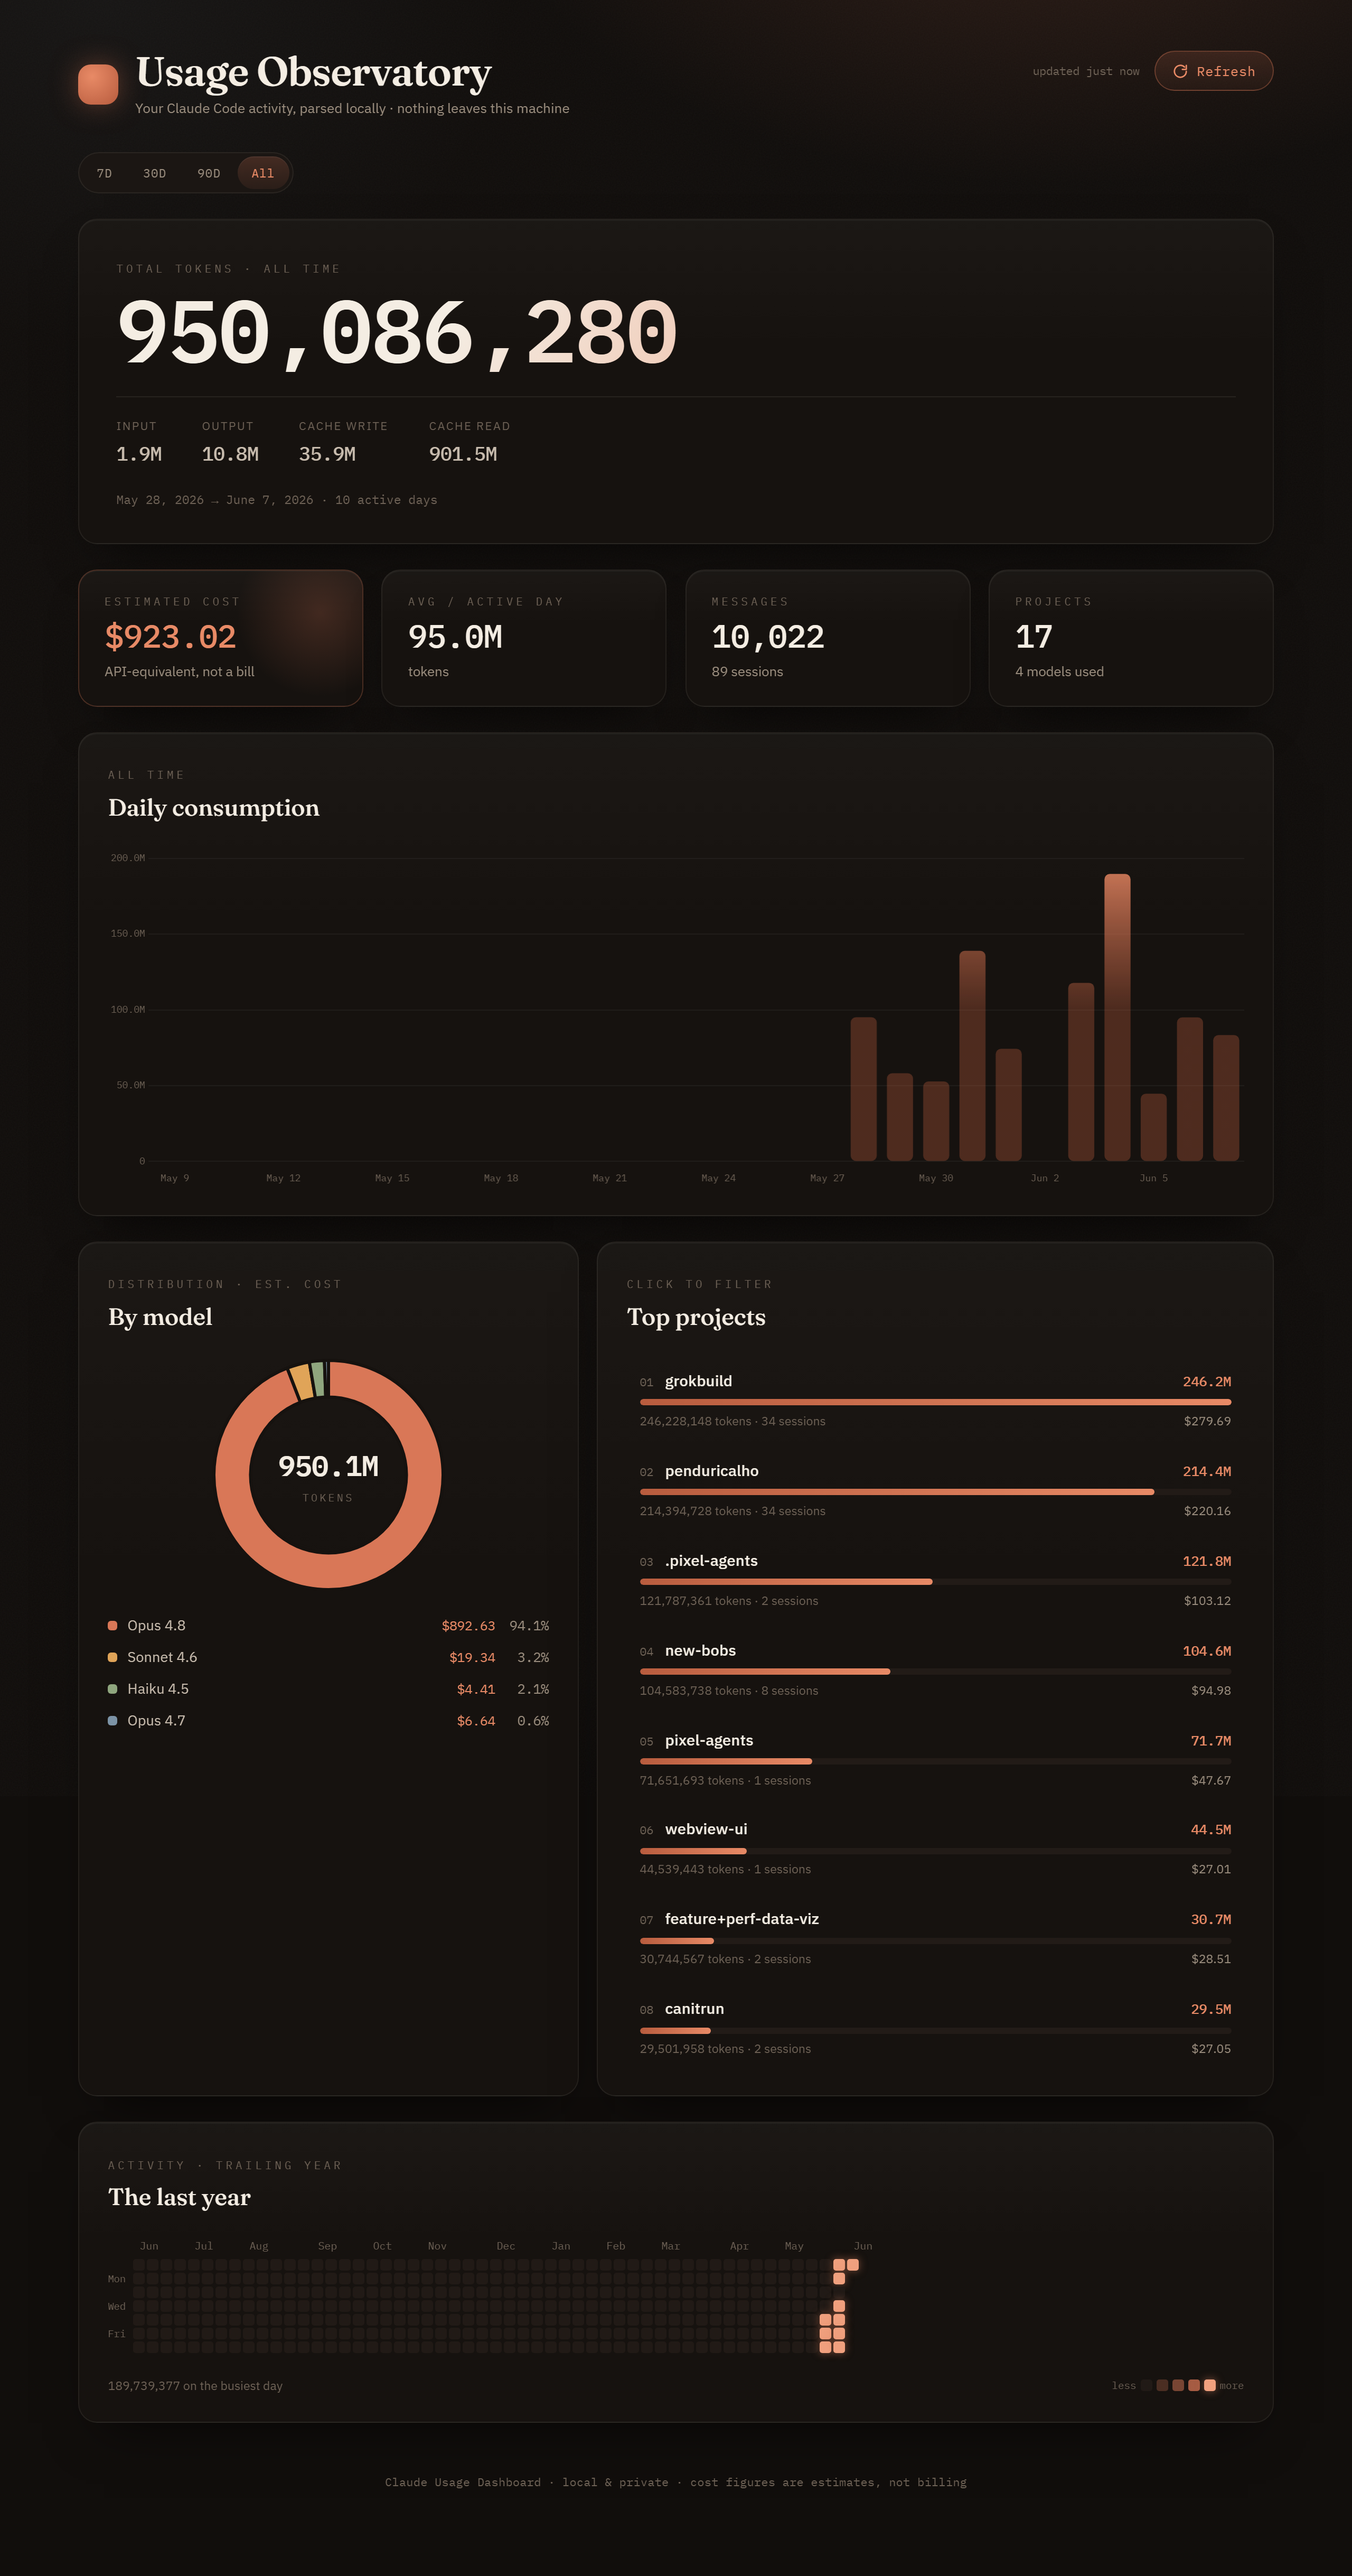
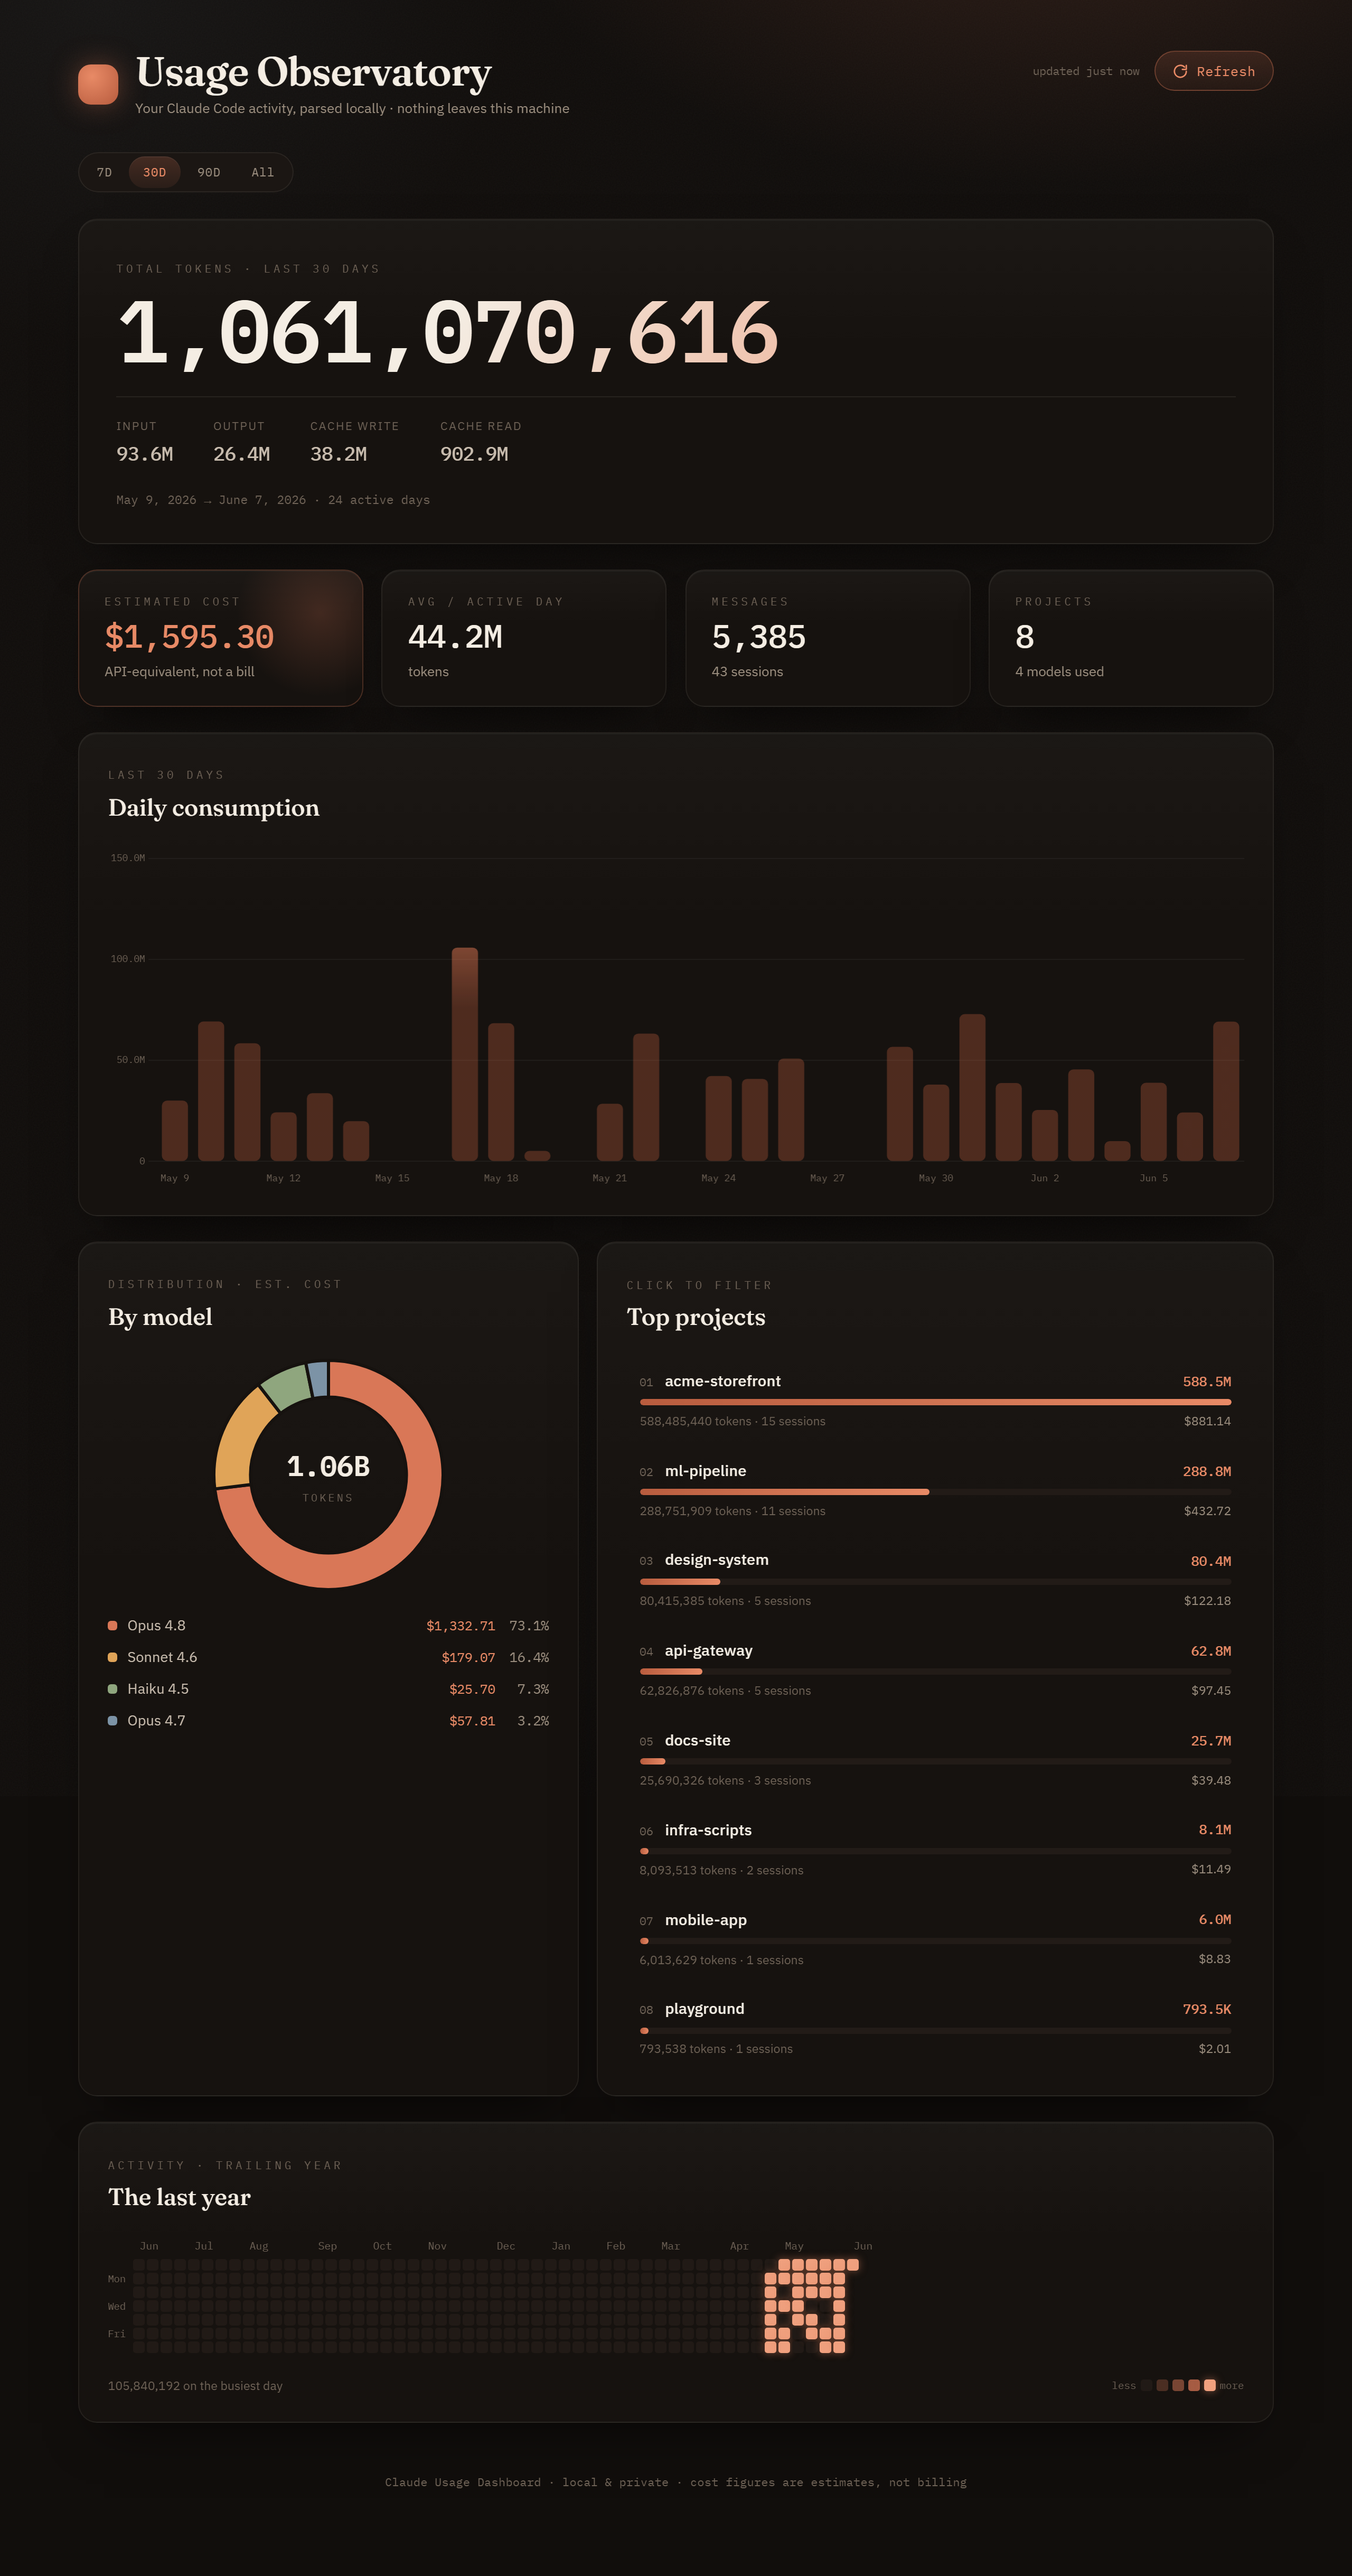
Replace screenshot with synthetic demo data
The previous preview exposed real project names and usage. Regenerate it
from fictional logs via a new scripts/generate_sample_logs.py (drives the
backend with CLAUDE_LOGS_DIR), add a caption noting the data is synthetic,
and gitignore the sample-logs output dir.

diff --git a/scripts/generate_sample_logs.py b/scripts/generate_sample_logs.py
@@ -1,0 +1,113 @@
+"""Generate synthetic Claude Code session logs for demos and screenshots.
+
+Produces JSONL files in the same shape the real parser reads
+(`type: "assistant"` records with `message.usage` + `message.model` + `cwd`),
+using fictional project names and randomized-but-realistic token counts. Point
+the backend at the output with the CLAUDE_LOGS_DIR environment variable:
+
+    python scripts/generate_sample_logs.py --out ./sample-logs
+    CLAUDE_LOGS_DIR=./sample-logs uvicorn main:app --port 8000  # from backend/
+
+Nothing here touches your real ~/.claude logs.
+"""
+
+from __future__ import annotations
+
+import argparse
+import json
+import random
+import uuid
+from datetime import datetime, timedelta, timezone
+from pathlib import Path
+
+# Fictional projects with a rough "weight" controlling how much usage each gets.
+PROJECTS = [
+    ("acme-storefront", 5.0),
+    ("ml-pipeline", 3.4),
+    ("design-system", 2.1),
+    ("api-gateway", 1.7),
+    ("docs-site", 1.2),
+    ("mobile-app", 1.0),
+    ("infra-scripts", 0.6),
+    ("playground", 0.35),
+]
+
+# Models with selection weights (Opus dominant, like typical heavy usage).
+MODELS = [
+    ("claude-opus-4-8", 0.74),
+    ("claude-sonnet-4-6", 0.16),
+    ("claude-haiku-4-5-20251001", 0.07),
+    ("claude-opus-4-7", 0.03),
+]
+
+
+def weighted_choice(pairs):
+    items, weights = zip(*pairs)
+    return random.choices(items, weights=weights, k=1)[0]
+
+
+def make_record(ts: datetime, project: str, session_id: str) -> dict:
+    model = weighted_choice(MODELS)
+    # Cache reads dominate real usage; scale others off a base size.
+    base = random.randint(1, 6)
+    return {
+        "type": "assistant",
+        "timestamp": ts.astimezone(timezone.utc).strftime("%Y-%m-%dT%H:%M:%S.%fZ"),
+        "cwd": f"/home/demo/projects/{project}",
+        "sessionId": session_id,
+        "message": {
+            "model": model,
+            "usage": {
+                "input_tokens": random.randint(800, 9000) * base,
+                "output_tokens": random.randint(150, 2600) * base,
+                "cache_creation_input_tokens": random.randint(0, 4000) * base,
+                "cache_read_input_tokens": random.randint(4000, 90000) * base,
+            },
+        },
+    }
+
+
+def main() -> None:
+    ap = argparse.ArgumentParser(description="Generate synthetic Claude Code logs.")
+    ap.add_argument("--out", default="./sample-logs", help="Output directory (logs root)")
+    ap.add_argument("--days", type=int, default=42, help="How many days back to span")
+    ap.add_argument("--seed", type=int, default=7, help="RNG seed for reproducibility")
+    args = ap.parse_args()
+
+    random.seed(args.seed)
+    out = Path(args.out)
+    today = datetime.now()
+
+    total = 0
+    for project, weight in PROJECTS:
+        proj_dir = out / project
+        proj_dir.mkdir(parents=True, exist_ok=True)
+        # A few sessions per project across the window.
+        n_sessions = max(2, round(weight * 4))
+        for _ in range(n_sessions):
+            session_id = str(uuid.uuid4())
+            records = []
+            # Each session spans a random recent day with a burst of messages.
+            day_offset = random.randint(0, args.days - 1)
+            day = today - timedelta(days=day_offset)
+            n_msgs = max(3, round(random.gauss(40 * weight, 12)))
+            for _ in range(n_msgs):
+                ts = day.replace(
+                    hour=random.randint(8, 23),
+                    minute=random.randint(0, 59),
+                    second=random.randint(0, 59),
+                    microsecond=random.randint(0, 999000),
+                )
+                records.append(make_record(ts, project, session_id))
+            records.sort(key=lambda r: r["timestamp"])
+            path = proj_dir / f"{session_id}.jsonl"
+            with path.open("w", encoding="utf-8") as fh:
+                for r in records:
+                    fh.write(json.dumps(r) + "\n")
+            total += len(records)
+
+    print(f"Wrote {total:,} synthetic records to {out.resolve()}")
+
+
+if __name__ == "__main__":
+    main()

diff --git a/README.md b/README.md
@@ -6,6 +6,8 @@ Everything runs on your machine. **No data ever leaves your computer.**
 
 ![Observatory](docs/preview.png)
 
+<sub>Screenshot uses synthetic demo data (`scripts/generate_sample_logs.py`) — not real usage.</sub>
+
 **Tech Stack**
 - Backend: FastAPI (Python)
 - Frontend: SvelteKit + TypeScript + Tailwind CSS v4
